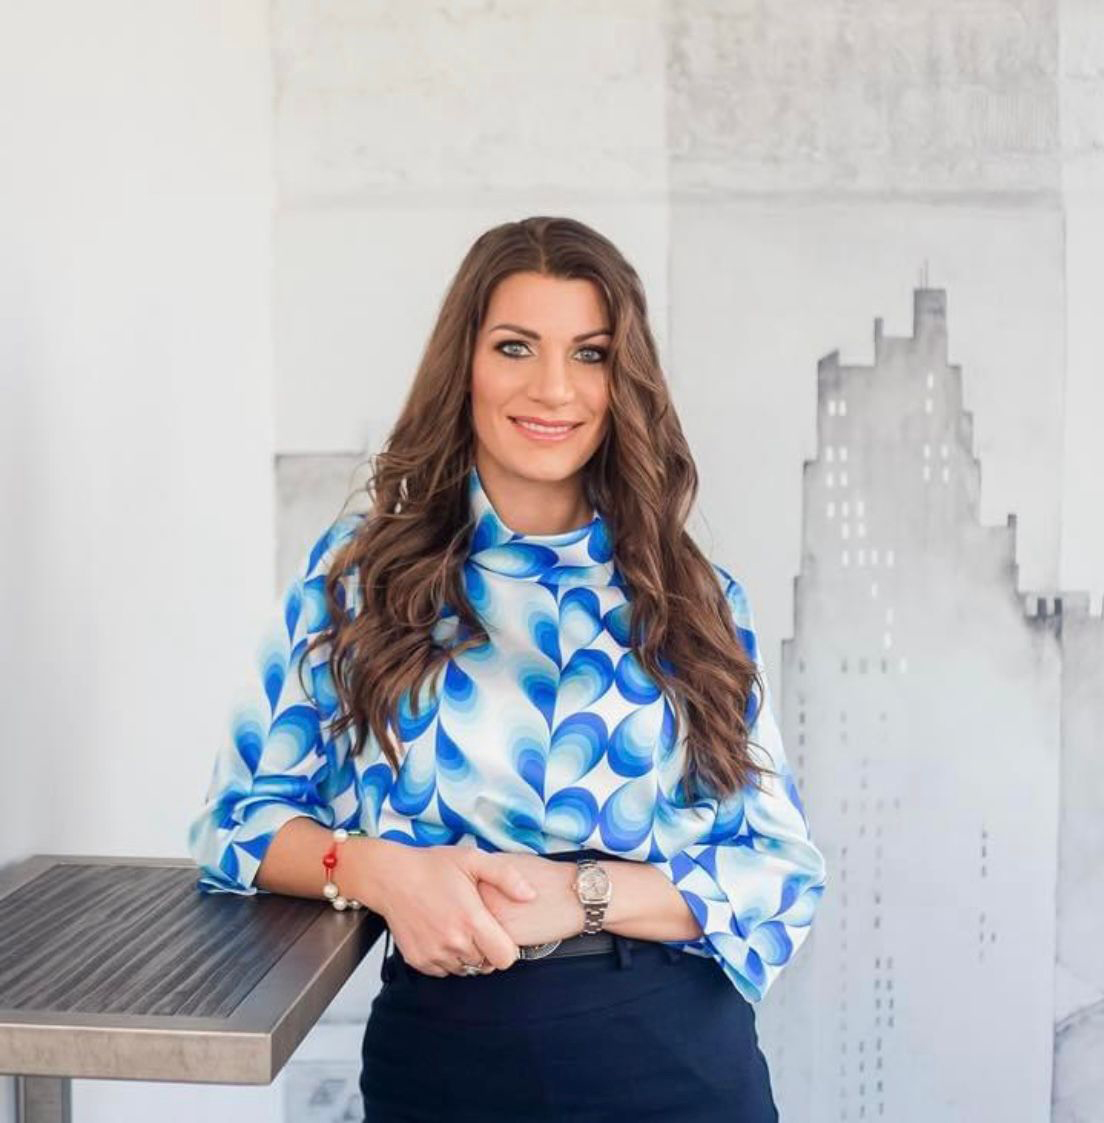
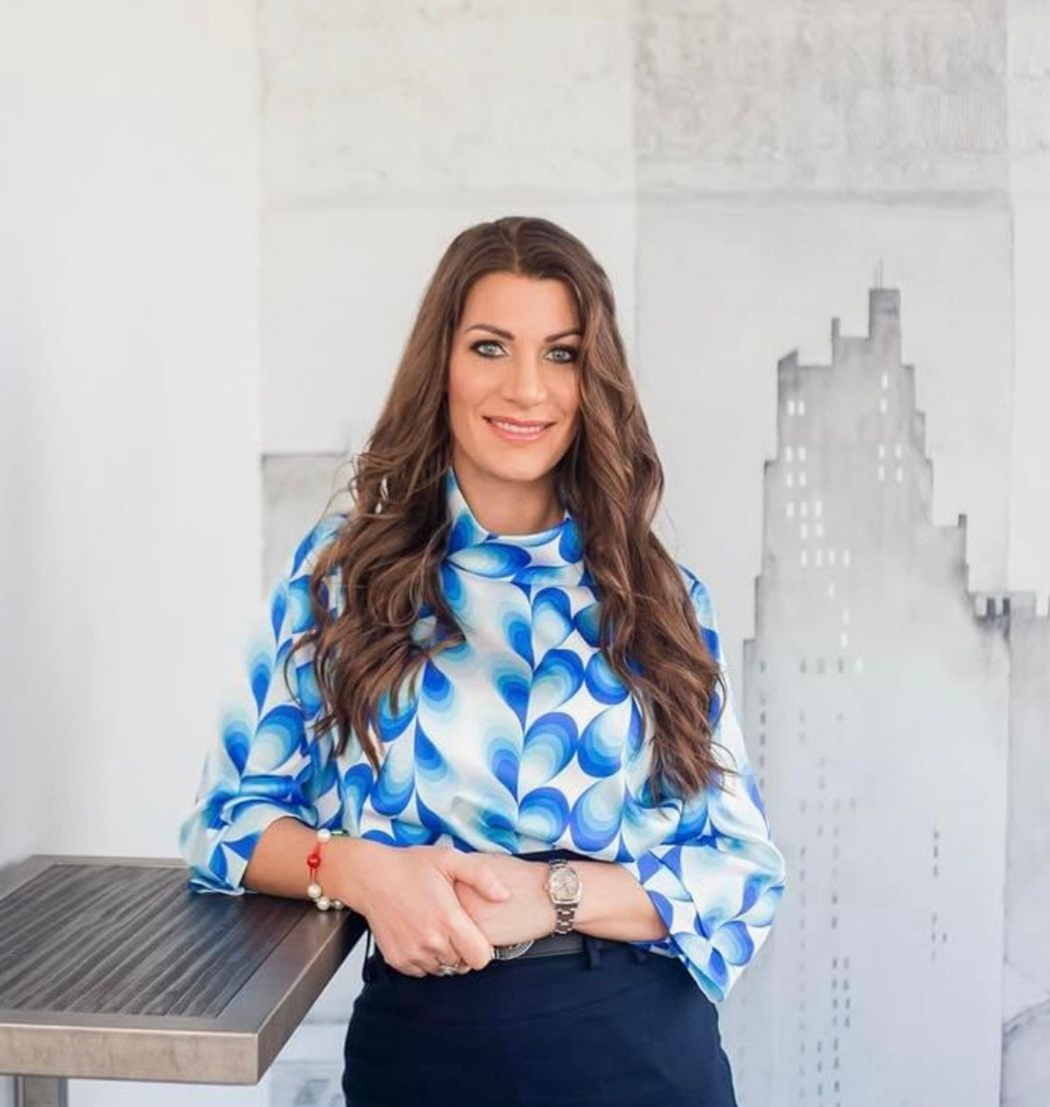
Ad team section with images

diff --git a/index.html b/index.html
@@ -282,7 +282,34 @@
           </div>
         </div>
       </section>
-      
+      <section>
+        <div class="team-container">
+          <div class="container">
+            <div class="main-three-content">
+              <p class="lined-text">Our Experts</p>
+              <h4>Meet Our Team</h4>
+
+              <div class="team-images">
+                <div class="team">
+                  <img src="img/team/Stefano Albanese.jpg" alt="" />
+                  <h4>Stefano Albanese, Esq.</h4>
+                  <p>Senior Managing Partner</p>
+                </div>
+                <div class="team">
+                  <img src="img/team/Fabio Ferrati.jpg" alt="" />
+                  <h4>Fabio Ferrati, Esq.</h4>
+                  <p>Partner</p>
+                </div>
+                <div class="team">
+                  <img src="img/team/Grace Reka.jpg" alt="" />
+                  <h4>Grace Reka</h4>
+                  <p>Associate</p>
+                </div>
+              </div>
+            </div>
+          </div>
+        </div>
+      </section>
     </main>
     <script src="js/script.js"></script>
   </body>

diff --git a/css/style.css b/css/style.css
@@ -390,7 +390,7 @@
   font-size: 36px;
   line-height: 48px;
   font-weight: 400;
-  padding-bottom: 40px;
+  padding-bottom: 60px;
 }
 
 .main-cards {
@@ -470,4 +470,58 @@
 
 #counter-icon {
   font-size: 50px;
+}
+
+.main-three-content {
+  padding: 80px 0;
+  align-items: center;
+  justify-content: center;
+  text-align: center;
+}
+
+.main-three-content p {
+  color: #09135a;
+  font-size: 18px;
+  line-height: 26px;
+  font-weight: 400;
+  font-family: "Raleway";
+  padding-bottom: 15px;
+}
+
+.main-three-content h4 {
+  font-size: 36px;
+  line-height: 48px;
+  font-weight: 400;
+}
+
+.team {
+  width: 100%;
+  max-width: 350px;
+  height: auto;
+  border-radius: 20px;
+  border-bottom: 5px solid #09135a;
+  background-color: #fff;
+  box-shadow: 2px 2px 2px rgba(0, 0, 0, 0.3);
+  padding-bottom: 20px;
+}
+
+.team-images {
+  display: flex;
+  gap: 30px;
+  padding-top: 60px;
+}
+
+.team-images img {
+  width: 100%;
+  max-width: 100%;
+  height: 80%;
+  border-radius: 20px;
+}
+
+.team h4 {
+  font-size: 22px;
+  line-height: 28px;
+  font-weight: 600;
+  color: #09135a;
+  padding-top: 30px;
 }
